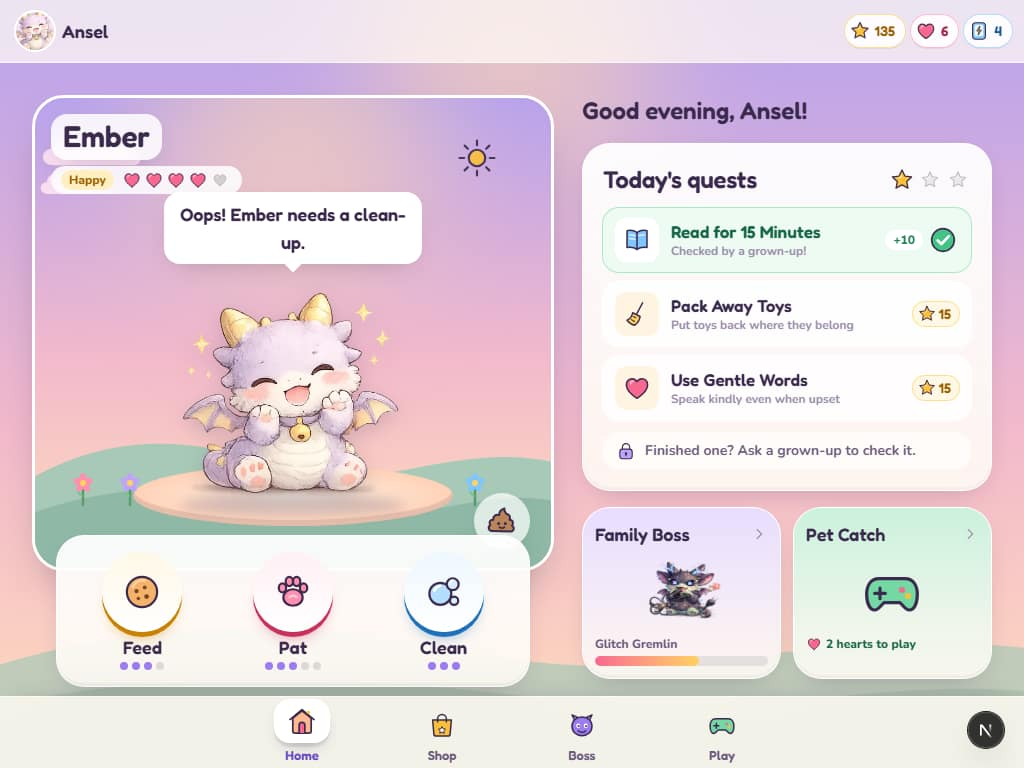
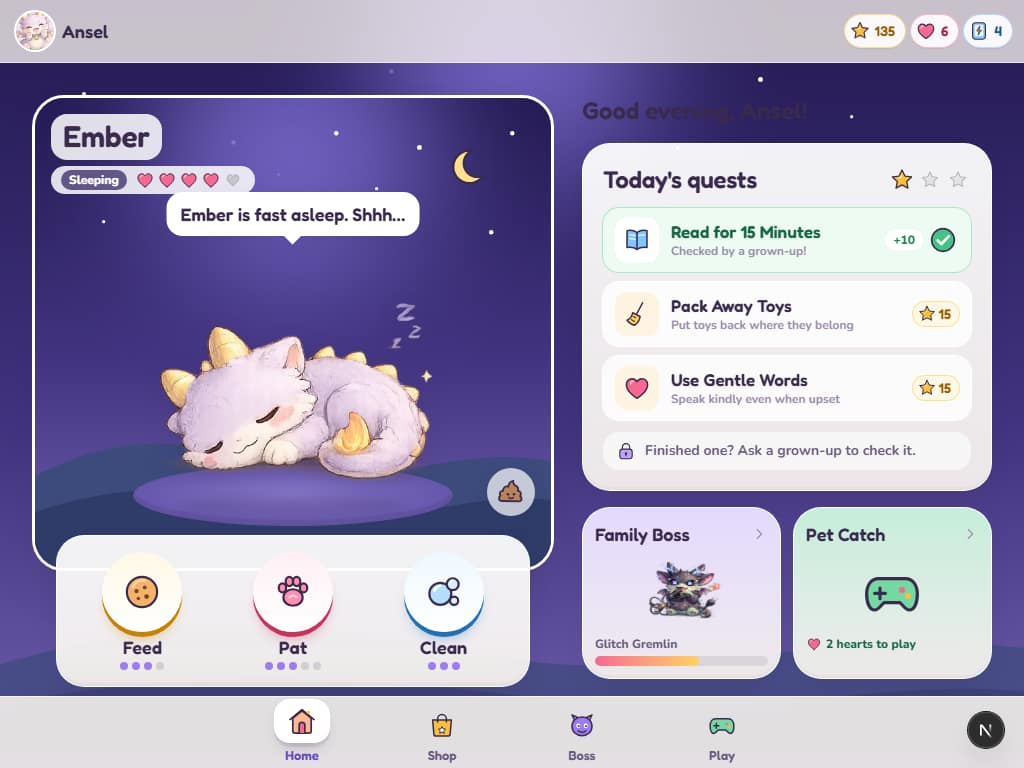
Polish iPad/phone details, align docs with owner economy decisions
- Pet Catch: fits iPad landscape, drifting sky, clearer 'more hearts' hint,
  sparkle score icon (no star imagery for a currency-free game)
- Shop prices use a coin badge; demo strip copy; readable night logout
- Preview builds also detected by non-main branch when VERCEL_ENV is absent
- Docs: economy decisions resolved, care limits 4/5/3, demo + SQL test notes
- Checkpoint file and new screenshots

diff --git a/app/child/[childId]/pet-catch/page.tsx b/app/child/[childId]/pet-catch/page.tsx
@@ -7,6 +7,7 @@ import { AnimatePresence, motion, useAnimationControls } from 'framer-motion';
 import { Icon } from '@/components/ui/Icon';
 import { PetSprite } from '@/components/child/PetSprite';
 import { Celebration } from '@/components/child/Celebration';
+import { Sky } from '@/components/child/Scenery';
 import { useChildState } from '@/app/child/_components/ChildStateProvider';
 import { PET_ROSTER } from '@/lib/mock-data';
 import type { PetType } from '@/lib/pet-skins';
@@ -290,11 +291,11 @@ export default function PetCatchGamePage() {
   const timeFraction = timeLeft / PET_CATCH_DURATION_SECONDS;
 
   return (
-    <div className="mx-auto flex w-full max-w-3xl flex-col px-3 pb-3 pt-3 sm:px-6 short:max-w-none short:pt-2 short:pb-2 lg:py-8">
+    <div className="mx-auto flex w-full max-w-3xl flex-col px-3 pb-3 pt-3 sm:px-6 short:max-w-none short:pt-2 short:pb-2 xl:py-8">
       <motion.div
         ref={arenaRef}
         data-pet-catch-arena
-        className="relative h-[max(400px,calc(100dvh-230px))] touch-none select-none overflow-hidden rounded-[2rem] border-[3px] border-white shadow-pop sm:h-[min(640px,calc(100dvh-220px))] lg:h-[min(660px,calc(100dvh-140px))] short:h-[calc(100dvh-112px)] short:min-h-[220px]"
+        className="relative h-[max(400px,calc(100dvh-230px))] touch-none select-none overflow-hidden rounded-[2rem] border-[3px] border-white shadow-pop sm:h-[min(640px,calc(100dvh-220px))] xl:h-[min(660px,calc(100dvh-140px))] short:h-[calc(100dvh-112px)] short:min-h-[220px]"
         animate={shake}
         onPointerDown={onPointerDown}
         onPointerMove={onPointerMove}
@@ -302,7 +303,7 @@ export default function PetCatchGamePage() {
         onPointerCancel={endDrag}
         onLostPointerCapture={endDrag}
       >
-        <div className="absolute inset-0 bg-gradient-to-b from-sky-200 via-plum-50 to-cream" aria-hidden="true" />
+        <Sky variant="meadow" className="absolute inset-0" />
         <svg className="absolute inset-x-0 bottom-0 h-[24%] w-full" viewBox="0 0 400 100" preserveAspectRatio="none" aria-hidden="true">
           <path d="M0 40 C 80 10, 160 20, 230 36 S 350 20, 400 30 L400 100 L0 100 Z" fill="#c6ead0" />
           <path d="M0 62 C 90 40, 180 50, 250 60 S 360 48, 400 56 L400 100 L0 100 Z" fill="#a7dcb6" />
@@ -311,7 +312,7 @@ export default function PetCatchGamePage() {
         {/* HUD */}
         <div className="absolute inset-x-3 top-3 z-30 flex items-start justify-between gap-2">
           <div className="flex items-center gap-1.5 rounded-2xl bg-white/90 py-1.5 pl-2 pr-3.5 shadow-soft">
-            <Icon name="star" size={30} />
+            <Icon name="sparkle" size={30} />
             <span className="font-display text-3xl font-semibold tabular-nums text-ink" aria-label={`Score ${score}`}>
               {score}
             </span>
@@ -414,9 +415,16 @@ export default function PetCatchGamePage() {
                     </>
                   )}
                 </button>
-                <p className="mt-2 text-xs font-bold text-ink-faint">
-                  You have {state.hearts} {state.hearts === 1 ? 'heart' : 'hearts'} · Drag to move, or hold the arrows
-                </p>
+                {canPlay ? (
+                  <p className="mt-2 text-xs font-bold text-ink-faint">
+                    You have {state.hearts} hearts · Drag to move, or hold the arrows
+                  </p>
+                ) : (
+                  <p className="mt-2 flex items-center justify-center gap-1 text-sm font-extrabold text-berry-600">
+                    <Icon name="heart" size={18} />
+                    {PET_CATCH_HEART_COST - state.hearts === 1 ? 'One more heart to play!' : `${PET_CATCH_HEART_COST - state.hearts} more hearts to play!`}
+                  </p>
+                )}
               </div>
             </motion.div>
           ) : null}

diff --git a/app/child/[childId]/shop/page.tsx b/app/child/[childId]/shop/page.tsx
@@ -241,7 +241,7 @@ export default function RewardShop() {
                           aria-disabled={short}
                           className={`btn-chunky w-full min-h-11 text-base ${short ? 'btn-paper opacity-70' : 'btn-honey'}`}
                         >
-                          <Icon name="star" size={20} /> {skin.cost}
+                          <span className="grid h-7 w-7 place-items-center rounded-full bg-white/80"><Icon name="star" size={20} /></span> {skin.cost}
                         </button>
                       ) : (
                         <span className="flex min-h-11 items-center justify-center rounded-2xl bg-ink/5 text-sm font-extrabold text-ink-faint">Locked</span>
@@ -352,7 +352,7 @@ export default function RewardShop() {
                     aria-disabled={state.stars < SECRET_EGG_COST}
                     className={`btn-chunky mx-auto mt-5 min-h-14 w-full max-w-xs text-xl ${state.stars < SECRET_EGG_COST ? 'btn-paper opacity-70' : 'btn-honey'}`}
                   >
-                    <Icon name="star" size={26} /> {SECRET_EGG_COST}
+                    <span className="grid h-8 w-8 place-items-center rounded-full bg-white/80"><Icon name="star" size={24} /></span> {SECRET_EGG_COST}
                   </button>
                 </>
               )}
@@ -393,7 +393,7 @@ export default function RewardShop() {
                           aria-disabled={short}
                           className={`btn-chunky mt-2 min-h-11 px-4 text-base ${short ? 'btn-paper opacity-70' : 'btn-honey'}`}
                         >
-                          <Icon name="star" size={20} /> {reward.cost}
+                          <span className="grid h-7 w-7 place-items-center rounded-full bg-white/80"><Icon name="star" size={20} /></span> {reward.cost}
                         </button>
                       </div>
                     </li>

diff --git a/next.config.ts b/next.config.ts
@@ -10,8 +10,11 @@ import type { NextConfig } from "next";
  * Production builds are unaffected.
  */
 const explicit = process.env.NEXT_PUBLIC_DEMO_MODE;
-const vercelPreview =
-  process.env.VERCEL_ENV === "preview" && process.env.POCKET_PETS_PREVIEW_BACKEND !== "supabase";
+const branch = process.env.VERCEL_GIT_COMMIT_REF;
+const isPreviewBuild =
+  process.env.VERCEL_ENV === "preview" ||
+  (process.env.VERCEL_ENV === undefined && Boolean(branch) && branch !== "main" && branch !== "master");
+const vercelPreview = isPreviewBuild && process.env.POCKET_PETS_PREVIEW_BACKEND !== "supabase";
 const demoMode = explicit === "1" || (explicit === undefined && vercelPreview) ? "1" : "0";
 
 const nextConfig: NextConfig = {

diff --git a/docs/ECONOMY_DECISIONS_NEEDED.md b/docs/ECONOMY_DECISIONS_NEEDED.md
@@ -1,57 +1,16 @@
-# Economy Decisions Needed (Owner)
+# Economy Decisions (resolved October 2026)
 
-Status: open — October 2026. The redesign deliberately **did not change** any reward
-amounts, prices, limits or pathways. Everything below describes what the code does
-today versus what the docs say, so the owner can decide which is right.
+The owner decided the following; code, tests and docs now match.
 
-## 1. Stars from Pet Catch
-
-| Source | Rule |
-| --- | --- |
-| Code (`lib/pet-catch-rules.ts`) | 2 hearts per round. Every round earns stars: score 0–25 → 5, 26–50 → 10, 51–75 → 15, 76+ → 20 |
-| `docs/PET_CATCH_GAME.md` | Score >50 → 5, >70 → 10, >100 → 15, >130 → 20 (and implicitly 0 below 51) |
-| `APP_RULES.md` / `STATE_MODEL.md` | Mini-games must **not** generate stars or hearts |
-
-Effect today: 2 hearts always become at least 5 stars, so hearts convert into stars.
-Combined with parent heart rewards, this is a currency conversion pathway.
-
-Decision needed: keep the flat 5-star floor, adopt the PET_CATCH_GAME.md tiers, or make
-the game fun-only (no stars).
-
-## 2. Stars from care actions
-
-Code (Supabase RPC `perform_care_action_transaction`): each Feed/Pat/Clean adds +10 mood;
-crossing into 80+ awards 1 star, reaching 100 awards 3 stars. APP_RULES documents this,
-but PRODUCT_VISION and the earlier "Golden Rule" say care must not give stars.
-
-Decision needed: confirm mood-milestone stars are intended.
-
-## 3. Care limits
-
-| Action | Code (server-enforced) | Docs |
+| Topic | Decision | Where enforced |
 | --- | --- | --- |
-| Feed | 4/day, 60 s cooldown | 2/day |
-| Pat | 5/day, 20 s cooldown | 5/day |
-| Clean | 3/day, 120 s cooldown | 1/day |
+| Pet Catch | 2 hearts per 60-second round; **no stars or other currency**. Score and a device-local best score are shown. | `app/child/[childId]/pet-catch`, `lib/pet-catch-rules.ts` |
+| Care (Feed/Pat/Clean) | Mood and reactions only — **no stars, hearts, Screen Energy, boss damage or egg progress**. | Migration `202610110001` redefines `perform_care_action_transaction` |
+| Care limits | Feed 4, Pat 5, Clean 3 per day; cooldowns 60 s / 20 s / 120 s (unchanged). | Same function |
+| Goals | Parent verification is the only way goals complete; verified goals keep their stars and boss damage. | `verify_daily_goal_transaction` (unchanged) |
 
-The server limits are authoritative. Decision needed: update docs or change the RPC.
+**Until migration `202610110001` is applied, the live database still gives care-milestone stars**
+(the browser cannot override a server function). See the owner actions in the PR.
 
-## 4. Undocumented mood effects
-
-- Verifying a goal adds +3 mood (in the verification RPC).
-- Uncleaned "poop" (auto-scheduled at 10:00 and 16:00 SGT) lowers the *displayed* mood by
-  3 per hour after a 10-hour grace period.
-- Mood decays 10 points every 12 hours (floor 30).
-
-Decision needed: confirm these are intended so the docs can describe them.
-
-## 5. Hearts' purpose
-
-The Shop guide previously said "Hearts cannot be spent here"; Pet Catch spends them.
-Docs plan "5 hearts = 10 minutes game time"; code charges 2 hearts per 60-second round.
-
-## Bug fixed during the redesign (behaviour change, not an economy change)
-
-Cleaned poop reappeared after a reload, because scheduled poop is generated on the device
-and was never stored server-side; the care RPC only records the last Clean time. Now any
-poop scheduled before the last Clean counts as cleaned. Prices and limits are unchanged.
+Still documented, unchanged behaviour: verifying a goal adds +3 mood; uncleaned poop lowers the
+displayed mood by 3 per hour after a 10-hour grace period; mood decays 10 points every 12 hours.

diff --git a/docs/ARCHITECTURE_CURRENT.md b/docs/ARCHITECTURE_CURRENT.md
@@ -23,17 +23,22 @@ localStorage keys are unchanged (`child-dashboard-state-*`, `daily-goals-by-chil
 ## Authoritative write paths
 
 - **Goal verification** — `verify_daily_goal_transaction` (stars, boss hit, egg progress/hatch, mood).
-- **Care actions** — `perform_care_action_transaction` (limits, cooldowns, mood, milestone stars).
+- **Care actions** — `perform_care_action_transaction` (limits, cooldowns, mood). From migration
+  `202610110001` it never changes balances (owner decision).
 - **Every other balance change** — `lib/child-economy.ts`. Each operation reads the latest
   `children` row, applies a pure rule from `lib/economy-rules.ts`, and writes only if
   `updated_at` is unchanged (`lib/optimistic-update.ts`), retrying on conflict. This
   replaced writes of absolute balances computed from a possibly stale local cache, which
   could erase a parent's award made on another device. Used by: shop purchases, Pet Catch
-  heart spend and star award, parent rewards/deductions, Screen Energy, boss prizes.
+  heart spend, parent rewards/deductions and Screen Energy. These are single-row changes, so the
+  version check makes them atomic.
 - **Boss mutations** — `lib/boss-sync.ts`, version-checked on `family_boss_state.updated_at`.
-  Victory claim flips `reward_claimed` first, so only one device can grant prizes.
+- **Victory prizes** — `claim_boss_victory_rewards()` (migration `202610110001`): one transaction
+  pays every child and sets `reward_claimed`, or nothing happens. Repeats return `already_claimed`.
+  There is no browser fallback, because a multi-row payout cannot be made atomic client-side.
 
-No database migrations were added.
+One additive migration, `202610110001_atomic_boss_claim_and_star_free_care.sql`, is included and
+tested on PGlite (`tests/sql-migrations.test.ts`). It is **not applied automatically**.
 
 ## App structure
 
@@ -54,10 +59,18 @@ No database migrations were added.
    balances or verify goals by calling the API. Today's protections are in the UI and the PIN.
 2. **Parent PIN** is a child-resistant gate, not authentication. It's stored in plain text in
    `parent_settings`, which any authenticated session can read. The default is `1234`.
-3. **Pet Catch stars are claimed by the client** (the server trusts the score).
+3. Pet Catch no longer awards anything, so there is no client-claimed currency left.
 
 A proper fix means server-side RPCs for every economy action, tighter RLS, and a separate
 parent role. That needs new migrations and a security-policy decision, so it was not done.
+
+## Demo mode and previews
+
+`NEXT_PUBLIC_DEMO_MODE=1` routes the Supabase client to an in-browser sample backend
+(`lib/demo-backend/`; data lives in that browser's localStorage). `next.config.ts` turns it on
+automatically for Vercel preview builds (not `main`/production), so PR previews never touch real
+data. Set `POCKET_PETS_PREVIEW_BACKEND=supabase` on Vercel to point previews at a staging project
+instead. `npm run demo` serves the same demo locally.
 
 ## QA tooling
 

diff --git a/docs/WORK_CHECKPOINT.md b/docs/WORK_CHECKPOINT.md
@@ -2,16 +2,20 @@
 
 Branch: `design/premium-pet-adventure` · PR #1 (do not merge/deploy prod)
 QA: `npm run qa:mock` + `npm run qa:dev`, then `npm test`, `npm run qa:flows`, `npm run qa:capture`.
+Demo: `npm run demo` → http://localhost:3200 · `node scripts/qa/demo-check.mjs http://localhost:3200`
 
-## Phase 2 tasks (owner decisions, Oct 2026)
-- [x] Pet Catch: 2 hearts/round, no stars (client + docs + tests)
-- [x] Care: no stars (client + new migration redefining care RPC; limits 4/5/3, cooldowns unchanged)
-- [x] Atomic idempotent `claim_boss_victory_rewards` RPC (migration) + client + mock + PGlite SQL tests
-- [ ] Demo mode (in-browser sample backend); Vercel preview builds auto-use it
-- [ ] Polish pass + 6-viewport sweep (375/390/430/768/1024x768/1440), both children
-- [ ] Docs (economy resolved, owner actions), PR body, push, verify preview
+## Phase 2 (owner decisions, Oct 2026) — complete
+- [x] Pet Catch: 2 hearts/round, no stars; device-local best score
+- [x] Care: no stars (migration 202610110001 redefines care RPC; limits 4/5/3, cooldowns unchanged)
+- [x] Atomic idempotent `claim_boss_victory_rewards` RPC + client (no non-atomic fallback) + mock + PGlite SQL tests
+- [x] Demo mode (in-browser sample backend); Vercel preview builds auto-use it (next.config.ts)
+- [x] Polish + 6-viewport sweep (Pet Catch iPad-landscape height, sky, hearts hint, price coins)
+- [x] Docs aligned (ECONOMY_DECISIONS_NEEDED now "resolved", ARCHITECTURE_CURRENT, QA_AUTOMATION)
 
-## Status
-- Phase 1 complete (PR #1 opened).
-- Economy + atomic claim done; migration 202610110001 tested on PGlite (tests/sql-migrations.test.ts); flows 20/20.
-- QA mock now wraps lib/demo-backend/core.mjs (shared with demo mode).
+## Last verified
+- tsc ✓ · eslint 0 errors (1 legacy warning) · npm test 18/18 · next build ✓ · qa:flows 21/21 · demo-check 8/8
+- Vercel previews are behind Vercel Authentication (owner login); content not verifiable from here.
+
+## Owner actions before merge
+1. Apply migration 202610110001 (staging first). Until then prize claiming shows a "needs database update" message and care still gives stars server-side.
+2. Open the Vercel preview and confirm the dark "Preview · sample family" strip is visible before signing in.

diff --git a/docs/APP_RULES.md b/docs/APP_RULES.md
@@ -127,7 +127,7 @@ Care actions should be fun pet interactions, not reward farming systems.
 
 Feed / Pat / Clean must not:
 
-- Give stars except when a care action crosses a mood reward threshold
+- Give stars or hearts
 - Give Screen Energy
 - Damage the boss
 - Increase Secret Egg progress
@@ -137,8 +137,6 @@ Feed / Pat / Clean must not:
 Care actions may:
 
 - Improve pet comfort by 10
-- Award 1 star when mood crosses into 80 or more
-- Award 3 stars when mood crosses into 100
 - Trigger animations
 - Trigger speech bubbles
 - Trigger hearts, sparkles, bubbles, or small visual effects
@@ -146,9 +144,9 @@ Care actions may:
 
 Current anti-spam rules:
 
-- Feed: max 2 times per day
-- Pat: max 5 times per day
-- Clean: max 1 time per day
+- Feed: max 4 times per day (60 s cooldown)
+- Pat: max 5 times per day (20 s cooldown)
+- Clean: max 3 times per day (120 s cooldown)
 - Cooldowns prevent rapid repeated clicking
 
 When the daily limit is reached, show a friendly message only.
@@ -634,4 +632,4 @@ Real-life goal completed
 -> Child earns progress  
 -> Pet / shop / boss system responds
 
-Feed / Pat / Clean are emotional interactions with limited mood-threshold star rewards.
+Feed / Pat / Clean are emotional interactions only: they change mood, never balances.

diff --git a/docs/CLAUDE_IMPLEMENTATION_RULES.md b/docs/CLAUDE_IMPLEMENTATION_RULES.md
@@ -74,9 +74,9 @@ Do not change product rules.
 - Children cannot self-verify goals.
 - Children cannot manually attack the boss.
 - Children cannot claim boss rewards.
-- Children cannot self-award hearts or Screen Energy. Stars are limited to defined reward paths, including care mood thresholds.
+- Children cannot self-award stars, hearts or Screen Energy. Stars come only from verified goals, parent rewards and boss victories.
 - Parent verification is the core source of meaningful progress.
-- Feed / Pat / Clean add 10 mood and may award stars only when crossing mood thresholds: 1 star at 80+, or 3 stars at 100.
+- Feed / Pat / Clean add 10 mood and never award stars, hearts or Screen Energy. Limits: Feed 4, Pat 5, Clean 3 per day.
 - Feed / Pat / Clean cannot generate Screen Energy.
 - Feed / Pat / Clean cannot damage the boss.
 - Feed / Pat / Clean cannot increase Secret Egg progress.

diff --git a/docs/STATE_MODEL.md b/docs/STATE_MODEL.md
@@ -155,9 +155,9 @@ type DailyActionCounts = {
 
 Current daily limits:
 
-- Feed: 2
+- Feed: 4
 - Pat: 5
-- Clean: 1
+- Clean: 3
 
 Care actions must not affect:
 
@@ -166,8 +166,8 @@ Care actions must not affect:
 - Egg progress
 - Goal completion
 
-Each successful Feed / Pat / Clean action adds 10 mood. Crossing into mood 80 or more
-awards 1 star, while crossing into mood 100 awards 3 stars.
+Each successful Feed / Pat / Clean action adds 10 mood. Care never changes stars, hearts or
+Screen Energy (migration 202610110001).
 
 Care actions may affect:
 
@@ -564,4 +564,4 @@ Real-life goal completed
 -> Child earns progress  
 -> Pet / shop / boss system responds
 
-Feed / Pat / Clean are emotional interactions with limited mood-threshold star rewards.
+Feed / Pat / Clean are emotional interactions only: they change mood, never balances.

diff --git a/docs/QA_AUTOMATION.md b/docs/QA_AUTOMATION.md
@@ -11,7 +11,16 @@ npm test
 ```
 
 Covers the economy rules, the optimistic-update retry logic (including simulated cross-device
-conflicts and double taps), Pet Catch star tiers, and the poop-clean fix.
+conflicts and double taps), Pet Catch being fun-only, the poop-clean fix, and
+`tests/sql-migrations.test.ts`, which runs the real migration SQL on PGlite (Postgres in WASM)
+to check atomic, idempotent prize claims and star-free care.
+
+## Demo (sample family, no real data)
+
+```bash
+npm run demo          # builds into .next-demo and serves http://localhost:3200
+node scripts/qa/demo-check.mjs http://localhost:3200   # end-to-end check, asserts no external requests
+```
 
 ## Running the app against the fake backend
 

diff --git a/docs/PET_CATCH_GAME.md b/docs/PET_CATCH_GAME.md
@@ -37,18 +37,9 @@ Score cannot go below 0.
 The game should start easier with fewer falling items.
 More items should appear toward the end of the round.
 
-## Star Reward After Game
-Final score converts into Star currency:
-
-- Score > 50: 5 Stars
-- Score > 70: 10 Stars
-- Score > 100: 15 Stars
-- Score > 130: 20 Stars
-
-Use the highest eligible reward only.
-
-Example:
-Score 115 = 15 Stars, not 5 + 10 + 15.
+## Rewards
+None. Pet Catch is fun-only (owner decision, Oct 2026): the final score is shown with a
+personal best kept on the device, and no stars, hearts or other currency are awarded.
 
 ## Important MVP Rules
 - Hearts are spent to start the game.

diff --git a/docs/QA_TESTING_CHECKLIST.md b/docs/QA_TESTING_CHECKLIST.md
@@ -172,9 +172,9 @@ Use the active root `app/` routes. Do not test legacy `src/` pages.
 
 Daily limits:
 
-- Feed: 2 times per day
+- Feed: 4 times per day
 - Pat: 5 times per day
-- Clean: 1 time per day
+- Clean: 3 times per day
 
 ## 8. Parent Goal Verification Test
 
